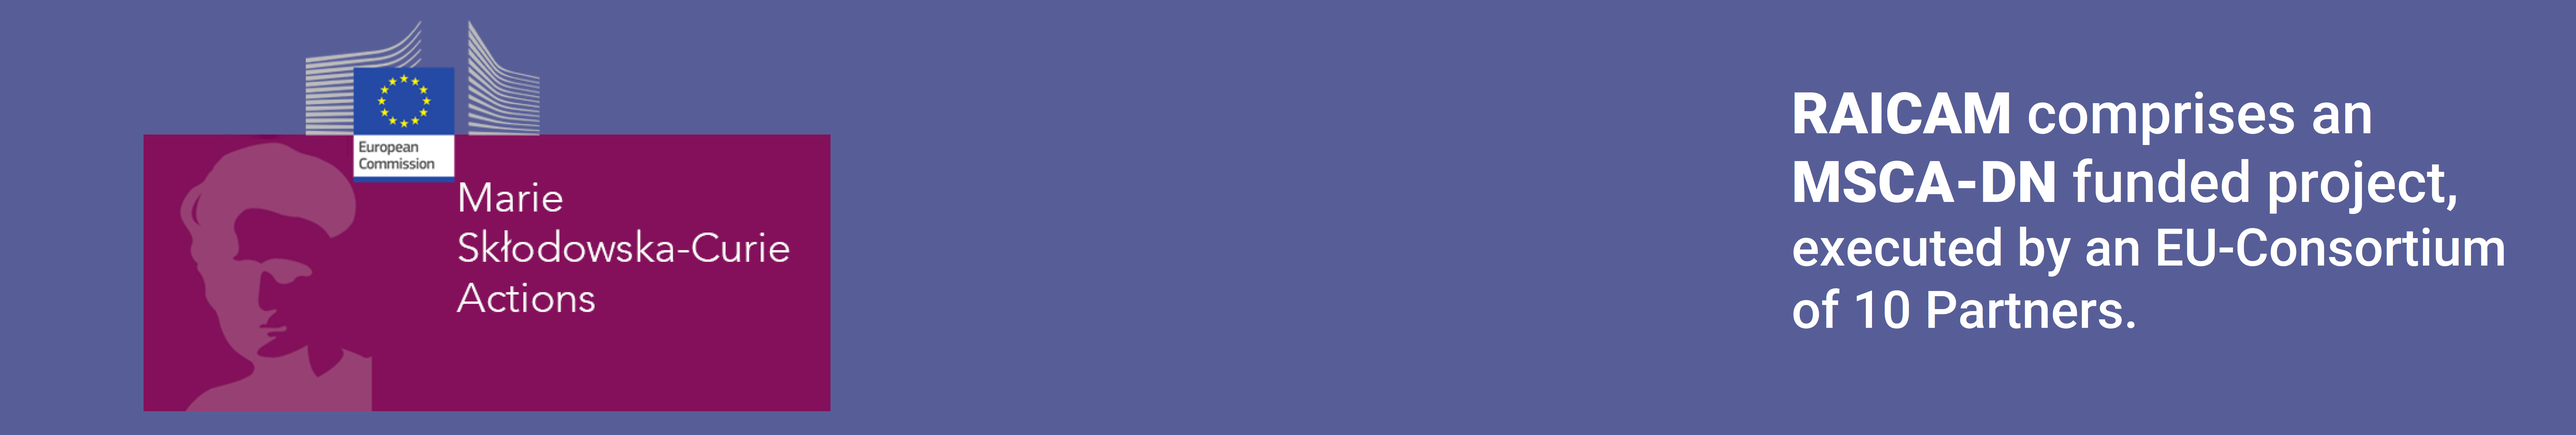
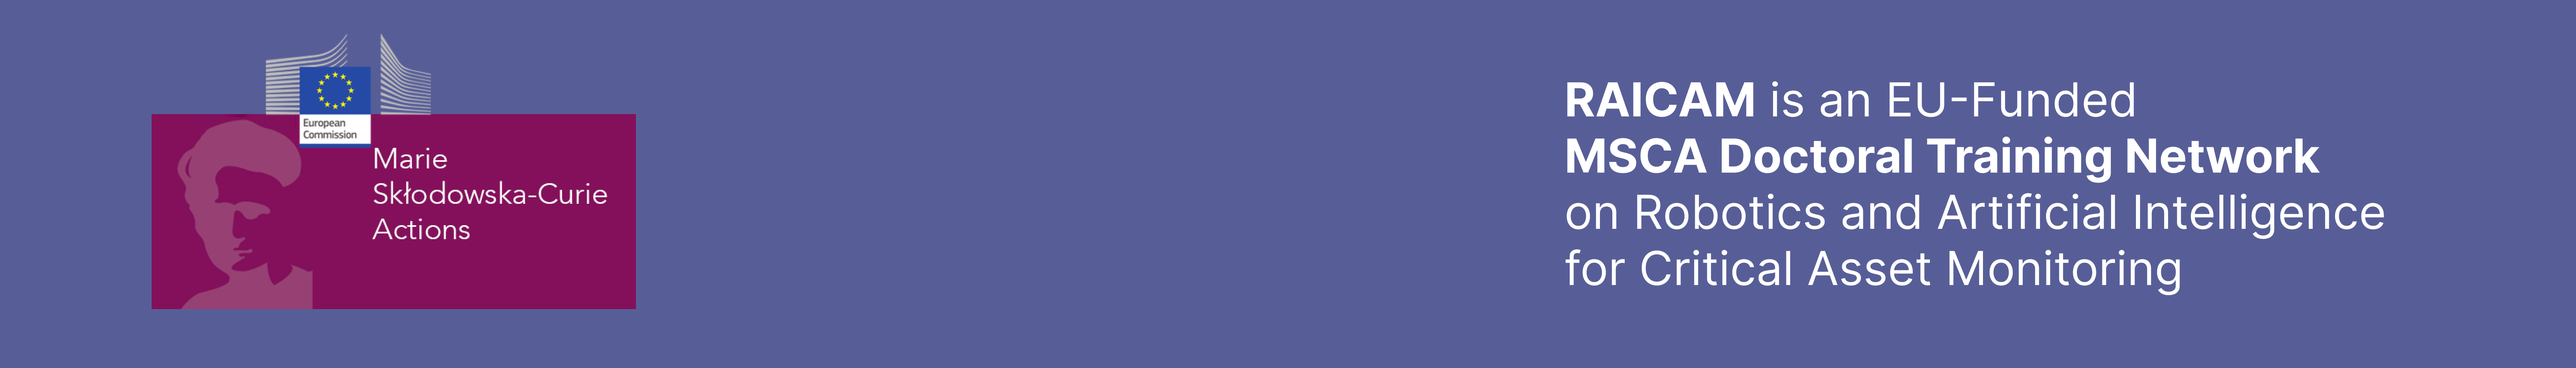
Added some responsiveness

diff --git a/index.html b/index.html
@@ -28,8 +28,8 @@
   <!--------------------BANNER------------------------>
   <div class="horizontal-banner">
     <img src="images/marie_curie_banner.png" id="banner" alt="">
-    <a href="https://marie-sklodowska-curie-actions.ec.europa.eu" id="msca-link"></a>
-    <a href="https://marie-sklodowska-curie-actions.ec.europa.eu/actions/doctoral-networks" id="msca-dn-link"></a>
+    <a href="https://marie-sklodowska-curie-actions.ec.europa.eu" id="msca-link" target="_blank"></a>
+    <a href="https://marie-sklodowska-curie-actions.ec.europa.eu/actions/doctoral-networks" id="msca-dn-link" target="_blank"></a>
   </div>
   <!--------------------INTRO------------------------>
   <div class="intro">
@@ -37,69 +37,46 @@
       <img class="raicam_image" src="Logos/Raicam_logo_with_text.png" alt="">
     </div>
     <img src="images/Bullet_points.png" alt="" id="bullets">
-    <div>
-      <h3 id="participants_txt">CONSORTIUM MEMBERS</h3>
-      <div class="participants_img">
-        <img src="Logos/Frame 17.png" alt="">
-        <img src="Logos/Frame 18.png" alt="">
-        <img src="Logos/Frame 19.png" alt="">
-        <img src="Logos/Frame 20.png" alt="">
-        <img src="Logos/Frame 26.png" alt="">
-      </div>
-      <div class="participants_img">
-        <img src="Logos/Frame 21.png" alt="">
-        <img src="Logos/Frame 22.png" alt="">
-        <img src="Logos/Frame 23.png" alt="">
-        <img src="Logos/Frame 24.png" alt="">
-        <img src="Logos/Frame 27.png" alt="">
-      </div>
+  </div>
+  <div class="intro_participants">
+    <h3 id="participants_txt">CONSORTIUM MEMBERS</h3>
+    <div class="participants_img">
+      <img src="Logos/FORTH.png" alt="">
+      <img src="Logos/TUM.png" alt="">
+      <img src="Logos/SEVILLA.png" alt="">
+      <img src="Logos/TAMPERE.png" alt="">
+      <img src="Logos/KIT.png" alt="">
+      <img src="Logos/TURKU.png" alt="">
+      <img src="Logos/IIT.png" alt="">
+      <img src="Logos/ENSTA.png" alt="">
+      <img src="Logos/UWE.png" alt="">
+      <img src="Logos/MANCHESTER.png" alt="">
     </div>
   </div>
-    
   <!-----------------------MAIN CONTENT----------------------------->
   <div class="main">
     <div class="flex-container" id="about">
       <h3 data-aos="fade-right" class="sticky">About</h3>
       <div data-aos="fade-left" data-aos-offset="200" class="content">
-        <p> The use of robots for the inspection, maintenance, and repair (IMR) of critical infrastructure assets will
-          revolutionise many sectors such as energy generation, energy transmission, civil infrastructure and
-          utilities. In fact, for some industries, the use of robotics is the only way to realise their full
-          potential.
-          For example, offshore wind energy generation is only feasible at the scales required if robotic platforms
-          are
-          used, from a safety, economic and skills shortage perspective.
+        <p> RAICAM aims to train a cohort of 10 PhD students to work on the next
+          generation of mobile robots for inspection and maintenance of industrial
+          facilities. RAICAM will develop a multi-domain, multi-agent robotic
+          sample retrieval system that will be able to obtain surface swabbing
+          samples of critical infrastructure buildings for chemical or biological
+          analysis.
           <br>
           <br>
-          Significant research has been conducted within the EU and the UK over the last 5 years in the field of
-          inspection robots and there have been numerous world-leading demonstrations of platforms conducting single
-          mission activities in representative environments. The vast majority of these activities have been remote
-          inspections, where the robot uses non-contact sensing (e.g., optical, thermal, radiological) coupled with
-          geometric scanning to build environmental maps and models.
-          <br>
-          <br>
-          To realise their full potential, however, robots will need to interact with the environment to perform
-          maintenance and repair activities. Environmental interaction is a highly complex activity requiring a
-          multi-disciplinary approach combining cognition (perception and reasoning), control, planning and, depending
-          on the level of autonomy, human interactions.
-          <br>
-          <br>
-          One of the most common, low-skilled activities undertaken by human technicians across a range of sectors is
-          sampling. Sampling is used to provide information that is representative of the environment from which a
-          sample is taken. The aim is to determine the properties (e.g., physical, chemical, biological, radiological)
-          of an environment with as much accuracy as possible. Sampling is critical to a number of
-          application-agnostic
-          practices such as contaminant testing, regulatory testing, environmental analysis, decommissioning, quality
-          assurance, and health & safety testing.
-          <br>
-          <br>
-          Whilst human technicians currently conduct sampling regimes, there is often significant uncertainty
-          associated
-          with repeatability, accuracy, and efficacy of the samples. A recent study has shown that automated systems
-          have the potential to outperform humans when collecting samples. Humans are also limited as to where they
-          can take samples from, either due to environmental hazardous (radiation, chemicals, heat) or location
-          (confined spaces or heights).
-          <br>
-          <br>
+          This is an exciting opportunity to do a PhD in Robotics and AI on an
+          important topic in a well-funded multi-disciplinary international
+          training network. We are looking for 10 excellent students to work
+          together as a multi-disciplinary cohort across 10 universities in
+          Europe. The partners have prepared an extensive training programme for
+          the students. Training will be delivered by all partners, so there is
+          ample opportunity to travel to partner sites, discuss interesting
+          research with like-minded peers, and boost your career by creating your
+          international network. There are also extensive secondment opportunities
+          with our wide range of industry partners. If you are interested in doing
+          your PhD with RAICAM, please get in touch.
         </p>
       </div>
     </div>
@@ -154,14 +131,16 @@
 
           <label for="institute">Institute of Preference:</label>
           <select id="institute" name="institute">
-            <option value="École nationale supérieure de techniques avancées Paris">École nationale supérieure de techniques avancées Paris</option>
-            <option value="Universidad De Seville">Universidad De Seville</option>
-            <option value="Istituto Italiano Di Technologia">Istituto Italiano Di Technologia</option>
-            <option value="Karlsruhe Institute of Technology">Karlsruhe Institute of Technology</option>
-            <option value="Technical University of Munich">Technical University of Munich</option>
-            <option value="University of Turku">University of Turku</option>
-            <option value="Tampere University">Tampere University</option>
             <option value="Foundation for Research and Technology - Hellas">Foundation for Research and Technology - Hellas</option>
+            <option value="Technical University of Munich">Technical University of Munich</option>
+            <option value="Universidad De Seville">Universidad De Seville</option>
+            <option value="Tampere University">Tampere University</option>
+            <option value="Karlsruhe Institute of Technology">Karlsruhe Institute of Technology</option>
+            <option value="University of Turku">University of Turku</option>
+            <option value="Istituto Italiano Di Technologia">Istituto Italiano Di Technologia</option>
+            <option value="École nationale supérieure de techniques avancées Paris">École nationale supérieure de techniques avancées Paris</option>
+            <option value="The University of West of England">The University of West of England</option>
+            <option value="The University of Manchester">The University of Manchester</option>
           </select>
 
           <label for="subject">Subject</label>

diff --git a/style.css b/style.css
@@ -12,19 +12,9 @@ html {
     overflow-x: hidden;
 }
 
-img{
-image-rendering: auto;
-  image-rendering: crisp-edges;
-  image-rendering: pixelated;
-
-  /* Safari seems to support, but seems deprecated and does the same thing as the others. */
-  image-rendering: -webkit-optimize-contrast;
-}
-
 li {
     list-style: none;
 }
-
 
 
 .small_logo{
@@ -99,8 +89,8 @@ a {
 
 .intro {
     justify-content: center;
-    padding-left: 30%;
-    padding-right: 30%;
+    padding-left: 30vw;
+    padding-right: 30vw;
     padding-top: 5%;
     z-index: 1;
     background-color: #E7E7E7;
@@ -111,6 +101,7 @@ a {
 .Raicam_logo{
     text-align: center;
     width: 100%;
+    height: auto;
 }
 
 .raicam_image{
@@ -138,24 +129,24 @@ a {
 .horizontal-banner {
     position: relative;
     background-color: #E7E7E7;
-    margin-top: max(7%, 90px);
+    margin-top: max(7%, 100px);
 }
 
 #msca-link {
     position: absolute;
     left: 5%;
     width: 28%;
-    height: 100%;
+    height: 70%;
     padding: 0;
     margin: 0;
 }
 
 #msca-dn-link {
     position: absolute;
-    left: 69%;
-    width: 29%;
-    height: 85%;
-    top: 5%;
+    left: 59%;
+    width: 35%;
+    height: 65%;
+    top: 35%;
     padding: 0;
     margin: 0;
 }
@@ -164,9 +155,20 @@ h3 {
     font-size: 20px;
 }
 
+.intro_participants {
+    justify-content: center;
+    padding-left: 5vw;
+    padding-right: 5vw;
+    z-index: 1;
+    background-color: #E7E7E7;
+    padding-bottom: 10%;
+    text-align: center;
+    align-items:center;
+}
+
 #participants_txt{
-    margin-left: 25%;
-    margin-right: 25%;
+    margin-left: 40%;
+    margin-right: 40%;
     color: #606060;
    line-height: 50px;
     border-bottom: 8px solid #66958A;
@@ -174,15 +176,16 @@ h3 {
 
 .participants_img {
     display: flex;
+    flex-wrap: wrap;
     align-items: center;
     justify-content: center;
-    height: 30vh;
 }
 
 .participants_img > img {
-    margin: 0 15px;
-    object-fit: cover;
-    height: 70%;
+    margin: 2% 2%;
+    width: 20vw;
+    max-width: 200px;
+    height: auto;
 }
 
 h1 {
@@ -210,7 +213,6 @@ h1 {
 
 .content {
     text-align: justify;
-    font-size: 20px;
     padding-right: 10%;
     padding-left: 10%;
 }
@@ -220,6 +222,30 @@ h1 {
     margin-top: 5rem;
     display: flex;
 }
+
+@media (max-width: 800px) {
+    .flex-container {
+      flex-direction: column;
+    }
+    .sticky {
+        position: relative;
+    }
+    .participants_img{
+    width: 100%;
+    }
+    .intro{
+        padding-left: 10%;
+        padding-right: 10%;
+        padding-top: 0;
+    }
+    .intro_participants {
+        padding-left: 5vw;
+        padding-right: 5vw;
+    }
+    .navbar{
+        display: none;
+    }
+  }
 
 #consortium {
     width: 100%;
